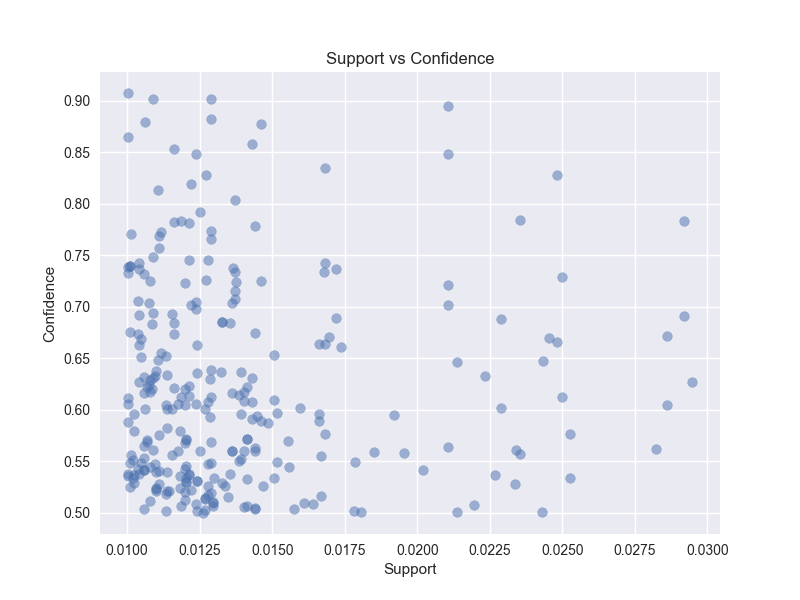
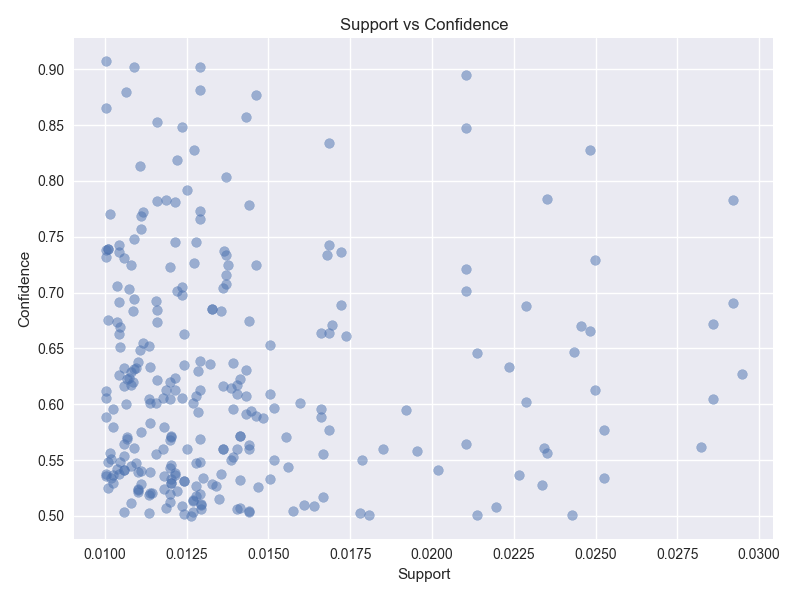
Initial commit - Retail Purchase Pattern Analysis

diff --git a/run_analysis.py b/run_analysis.py
@@ -12,6 +12,8 @@ from __future__ import annotations
 import argparse
 from pathlib import Path
 
+import matplotlib
+matplotlib.use('Agg')
 import matplotlib.pyplot as plt
 import pandas as pd
 import seaborn as sns
